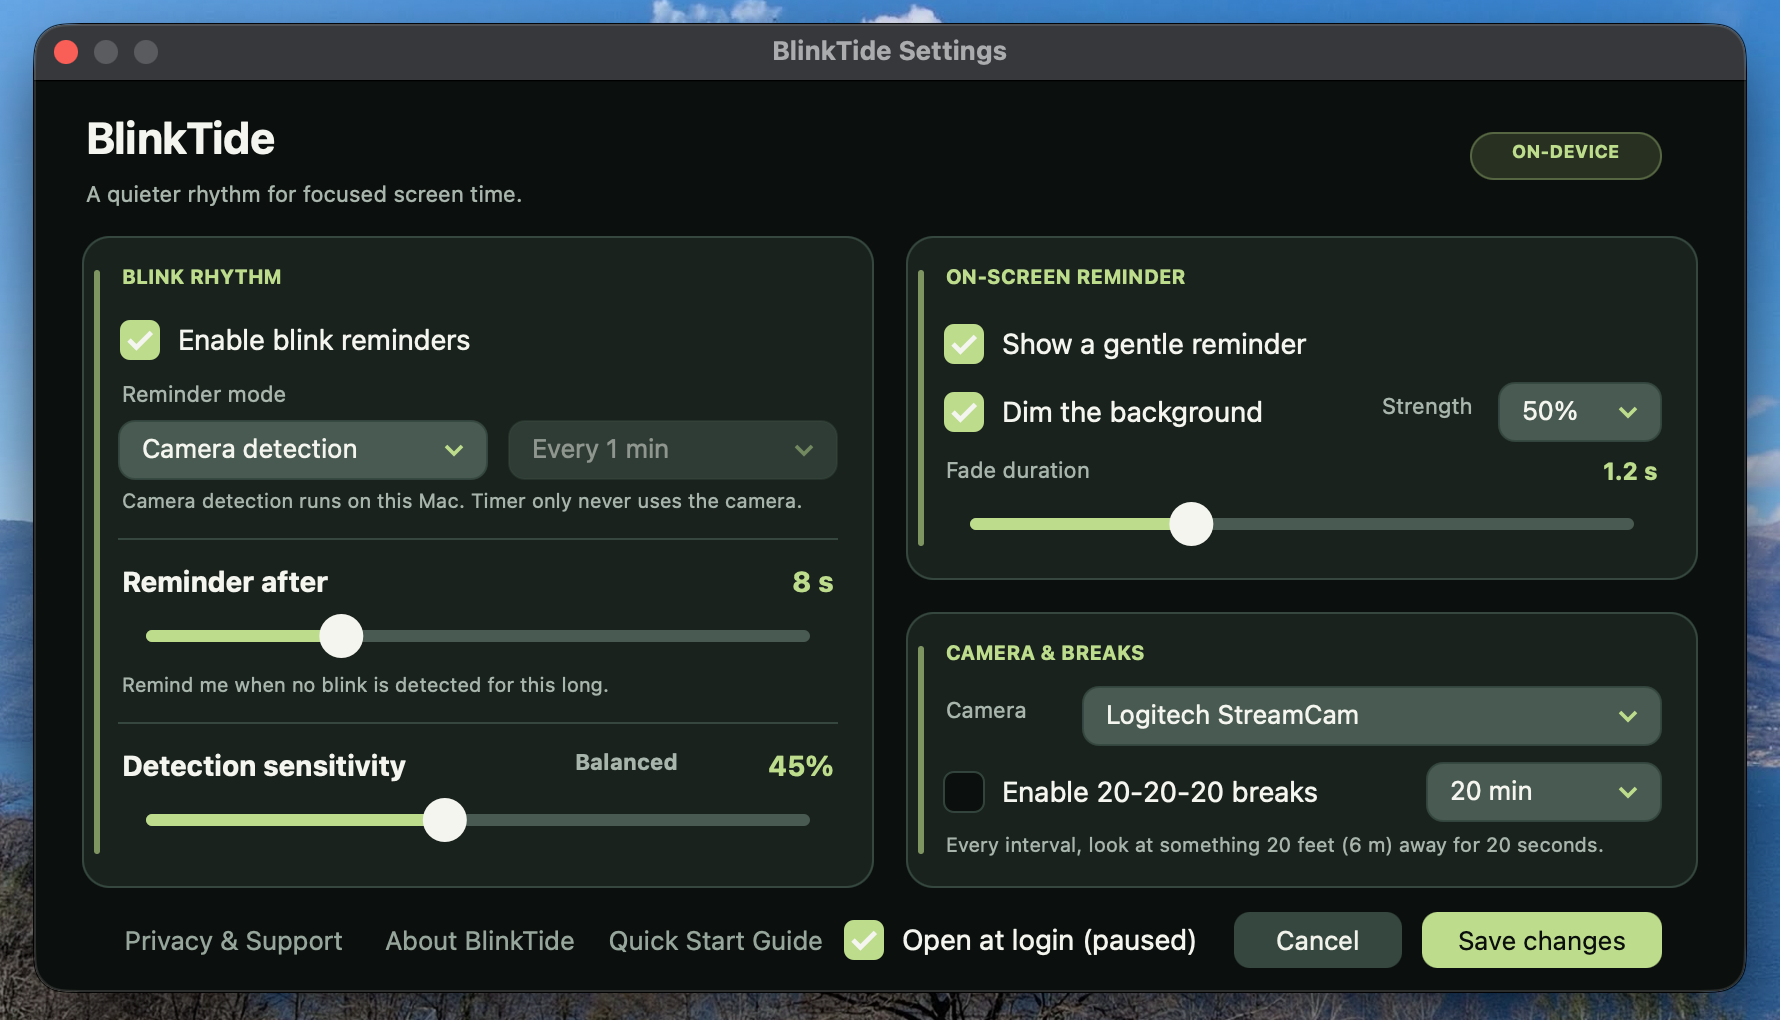
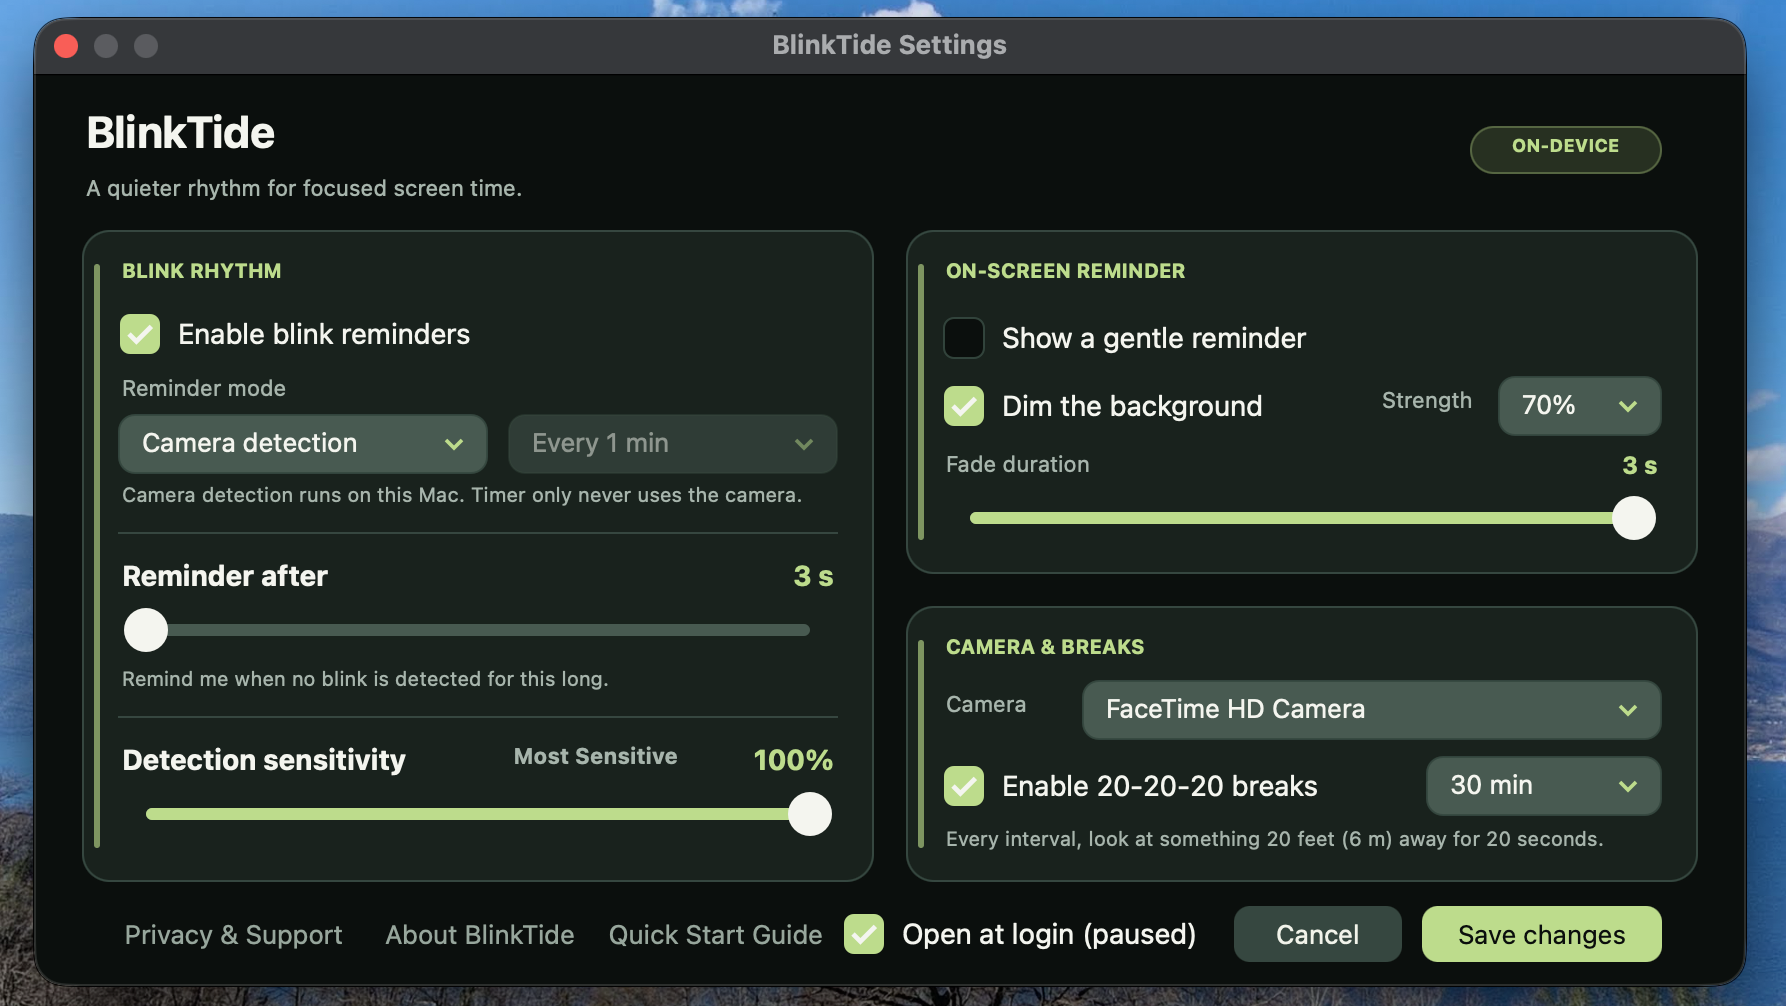
Center the menu panel, update settings screenshot and say "via webcam"
Cut the menu panel out as a transparent image so it is centred in its card
and floats with its own shadow. Rebuild its left edge where the submenu
overlapped it. Use the new settings screenshot, which shows a generic
camera, and describe detection as working via webcam instead of the Mac's
camera. Add FaceTime to the trademark notice.

diff --git a/index.html b/index.html
@@ -46,7 +46,7 @@
       <div class="container stage-copy">
         <p class="kicker">Menu bar app for Macs with Apple silicon</p>
         <h1 id="hero-title">Blink reminders<br><span>for your Mac.</span></h1>
-        <p class="stage-lead">BlinkTide estimates your blink rate with your Mac's camera and reminds you to blink. Prefer to leave the camera off? Use a timer instead. No camera image, blink measurement or BlinkTide content leaves your Mac.</p>
+        <p class="stage-lead">BlinkTide estimates your blink rate via webcam and reminds you to blink. Prefer to leave the camera off? Use a timer instead. No camera image, blink measurement or BlinkTide content leaves your Mac.</p>
         <div class="hero-actions">
           <a class="button" href="#pricing">Try free for 7 days</a>
           <a class="button ghost" href="#how-it-works">See how it works</a>
@@ -113,7 +113,7 @@
             <div>
               <p class="mode-tag">Camera mode</p>
               <h3>See your blink rate in the menu bar.</h3>
-              <p>BlinkTide uses your Mac's camera and native Apple technologies to detect blinks on your device.</p>
+              <p>BlinkTide uses your webcam and native Apple technologies to detect blinks on your device.</p>
               <ul class="ticks">
                 <li>Estimates for the last 60 seconds and the current session</li>
                 <li>Adjustable detection sensitivity</li>
@@ -124,7 +124,7 @@
                 <li>Turn the camera on or off at any time</li>
               </ul>
             </div>
-            <figure class="mode-shot"><img src="assets/screens/menu-panel.png" width="736" height="1020" loading="lazy" alt="The BlinkTide menu: 10 blinks per minute, 42 in the session, a five-minute activity chart and detection sensitivity at 45%."></figure>
+            <figure class="mode-shot"><img src="assets/screens/menu-panel.png" width="539" height="911" loading="lazy" alt="The BlinkTide menu: 10 blinks per minute, 42 in the session, a five-minute activity chart and detection sensitivity at 45%."></figure>
           </article>
 
           <article class="mode mode-timer">
@@ -151,7 +151,7 @@
               <h3>Set up the missed-blink reminder your way.</h3>
               <p>In camera mode, you decide how long BlinkTide waits, whether the on-screen message appears and how much the background dims.</p>
             </div>
-            <figure class="custom-shot"><img src="assets/screens/settings.png" width="1780" height="1020" loading="lazy" alt="The BlinkTide settings window: reminder mode, reminder delay, detection sensitivity, on-screen reminder and background dimming, camera choice and 20-20-20 breaks."></figure>
+            <figure class="custom-shot"><img src="assets/screens/settings.png" width="1786" height="1006" loading="lazy" alt="The BlinkTide settings window: reminder mode, reminder delay, detection sensitivity, on-screen reminder and background dimming, camera choice and 20-20-20 breaks."></figure>
           </article>
         </div>
       </div>
@@ -357,7 +357,7 @@
       </div>
     </section>
 
-    <p class="container product-disclaimer">BlinkTide is not a medical device. It does not diagnose any condition and is not a substitute for advice from a healthcare professional. Apple, Mac, MacBook, MacBook Air, MacBook Pro, iMac, Mac mini, Mac Studio, Mac Pro and macOS are trademarks of Apple Inc., registered in the U.S. and other countries and regions. Windows is a trademark of Microsoft Corporation. BlinkTide is not affiliated with or endorsed by Apple Inc. or Microsoft Corporation.</p>
+    <p class="container product-disclaimer">BlinkTide is not a medical device. It does not diagnose any condition and is not a substitute for advice from a healthcare professional. Apple, Mac, MacBook, MacBook Air, MacBook Pro, iMac, Mac mini, Mac Studio, Mac Pro, macOS and FaceTime are trademarks of Apple Inc., registered in the U.S. and other countries and regions. Windows is a trademark of Microsoft Corporation. BlinkTide is not affiliated with or endorsed by Apple Inc. or Microsoft Corporation.</p>
   </main>
 
   <footer class="site-footer"><div class="container footer-layout"><a class="brand" href="./"><span class="brand-signal" aria-hidden="true"><i></i><i></i><i></i></span><span>BlinkTide</span></a><p>Blink reminders for your Mac.</p><div class="footer-links"><a href="#pricing">Pricing</a><a href="privacy/">Privacy</a><a href="terms/">Terms</a><a href="support/">Support</a></div></div></footer>

diff --git a/assets/home.css b/assets/home.css
@@ -50,7 +50,10 @@
 .step-number { color: var(--lime); display: block; font-size: clamp(4.5rem, 8vw, 7.5rem); font-weight: 600; letter-spacing: -.06em; line-height: 1; margin-bottom: 18px; }
 .step kbd { background: rgba(242, 244, 233, .1); border-radius: 6px; color: var(--cream); font-family: var(--sans); font-size: .92em; padding: 2px 7px; white-space: nowrap; }
 .shot, .mode-shot, .shot-stack { margin: 0; }
-.shot img, .shot-stack img, .mode-shot img { border: 1px solid rgba(242, 244, 233, .14); border-radius: 18px; box-shadow: var(--shadow); height: auto; width: 100%; }
+.shot img, .shot-stack img { border: 1px solid rgba(242, 244, 233, .14); border-radius: 18px; box-shadow: var(--shadow); height: auto; width: 100%; }
+/* The menu panel is a transparent cut-out, so it floats with its own shadow instead of a frame. */
+.mode-shot { justify-self: center; width: 100%; }
+.mode-shot img { filter: drop-shadow(0 22px 34px rgba(0, 0, 0, .5)); height: auto; width: 100%; }
 .shot-stack { aspect-ratio: 6 / 5; position: relative; }
 .shot-stack img { position: absolute; width: 66%; }
 .shot-stack img:nth-child(1) { left: 0; opacity: .55; top: 0; }
@@ -61,7 +64,7 @@
 .section-modes { background: var(--night-2); }
 .modes { display: grid; gap: 20px; grid-template-columns: minmax(0, 7fr) minmax(0, 5fr); margin-top: clamp(48px, 6vw, 80px); }
 .mode { background: var(--panel); border-radius: 26px; padding: clamp(28px, 3.6vw, 48px); }
-.mode-camera { align-items: center; display: grid; gap: 36px; grid-template-columns: minmax(0, 1fr) minmax(0, 250px); }
+.mode-camera { align-items: center; display: grid; gap: 36px; grid-template-columns: minmax(0, 1fr) minmax(0, 270px); }
 .mode-tag { color: var(--lime) !important; font-size: .95rem !important; font-weight: 650; margin-bottom: 14px !important; }
 .mode-timer { display: flex; flex-direction: column; }
 .custom-shot { margin: 0; }
